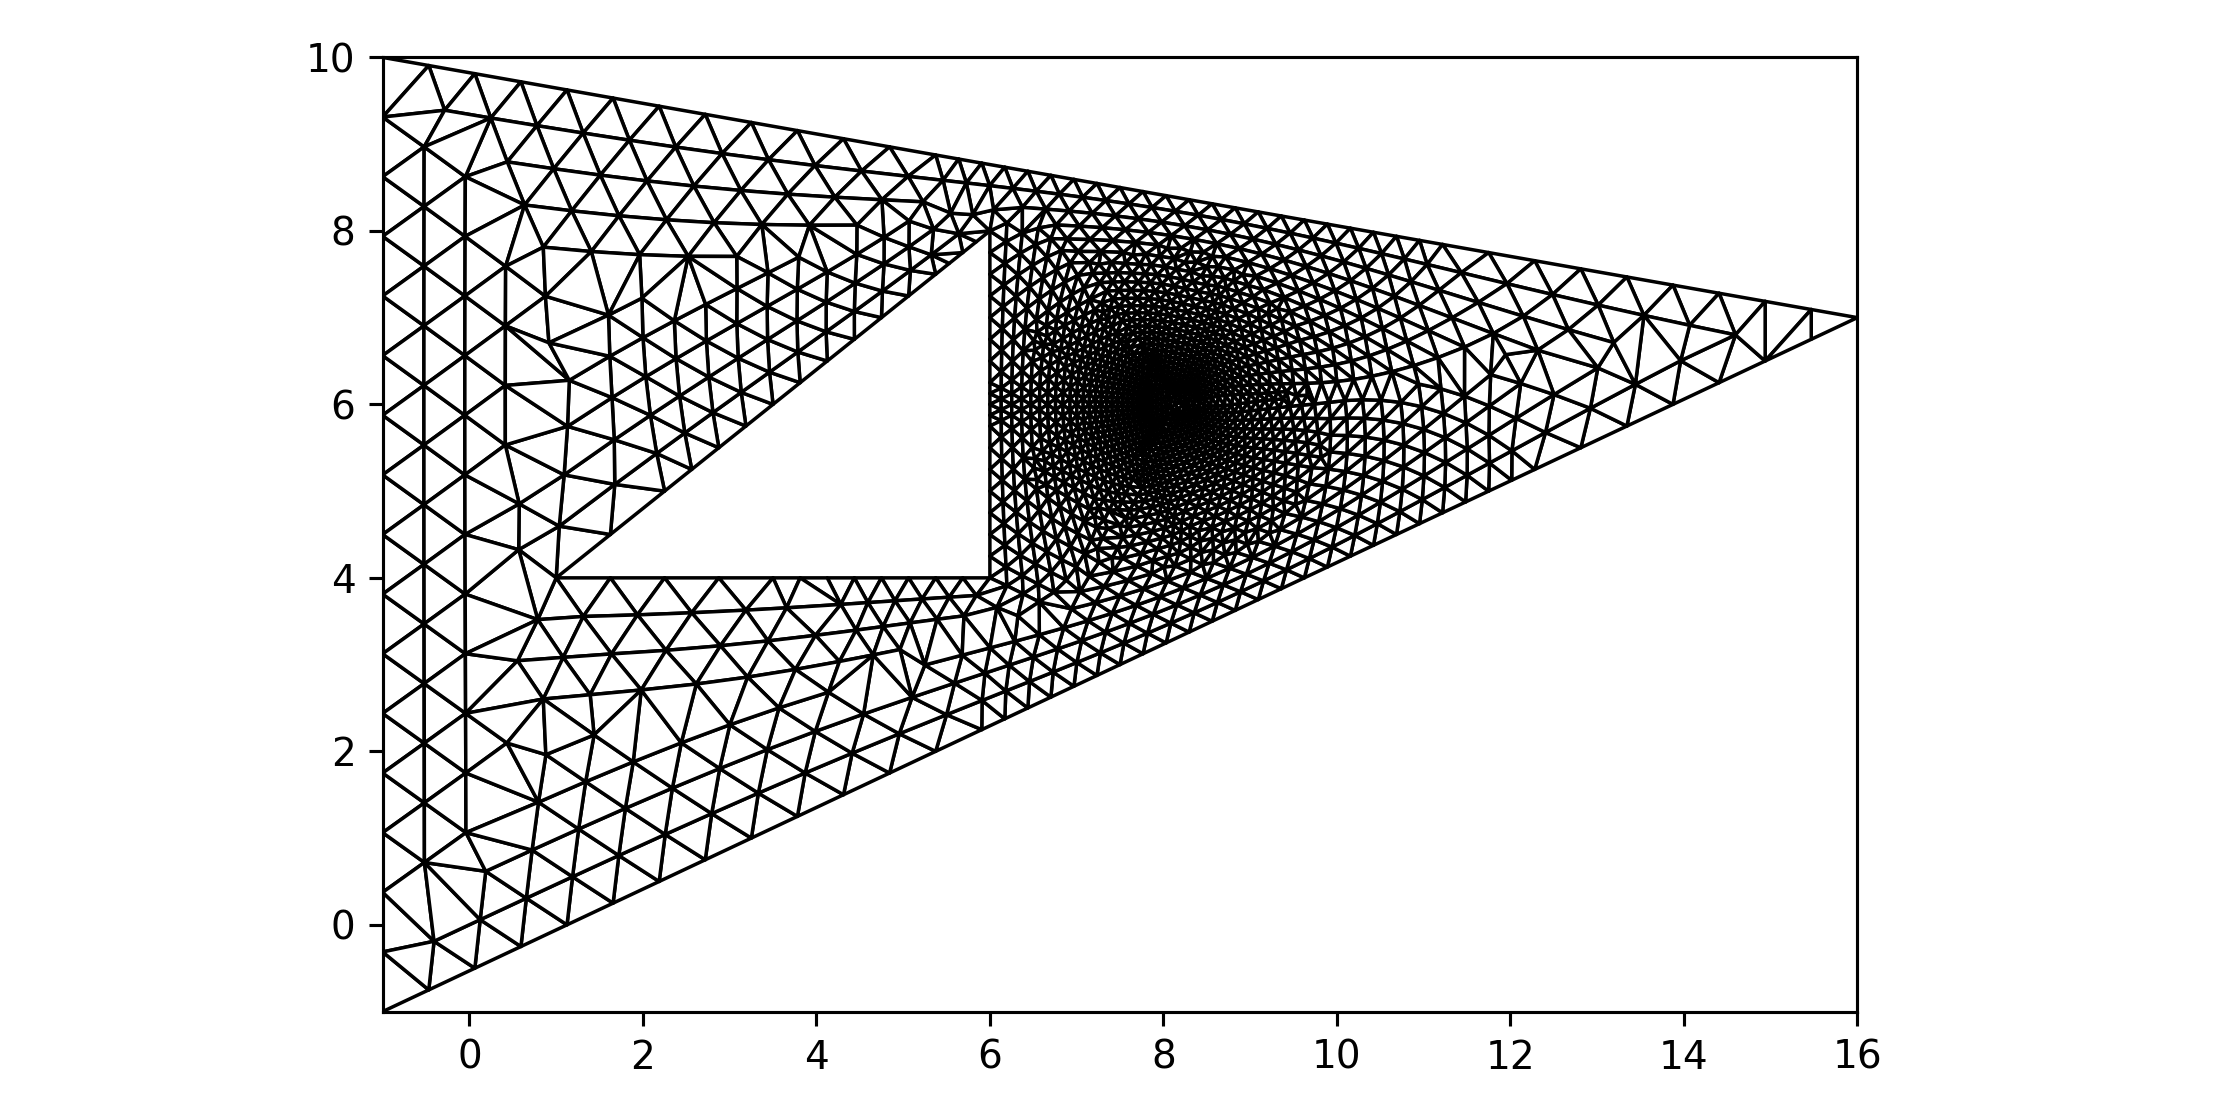
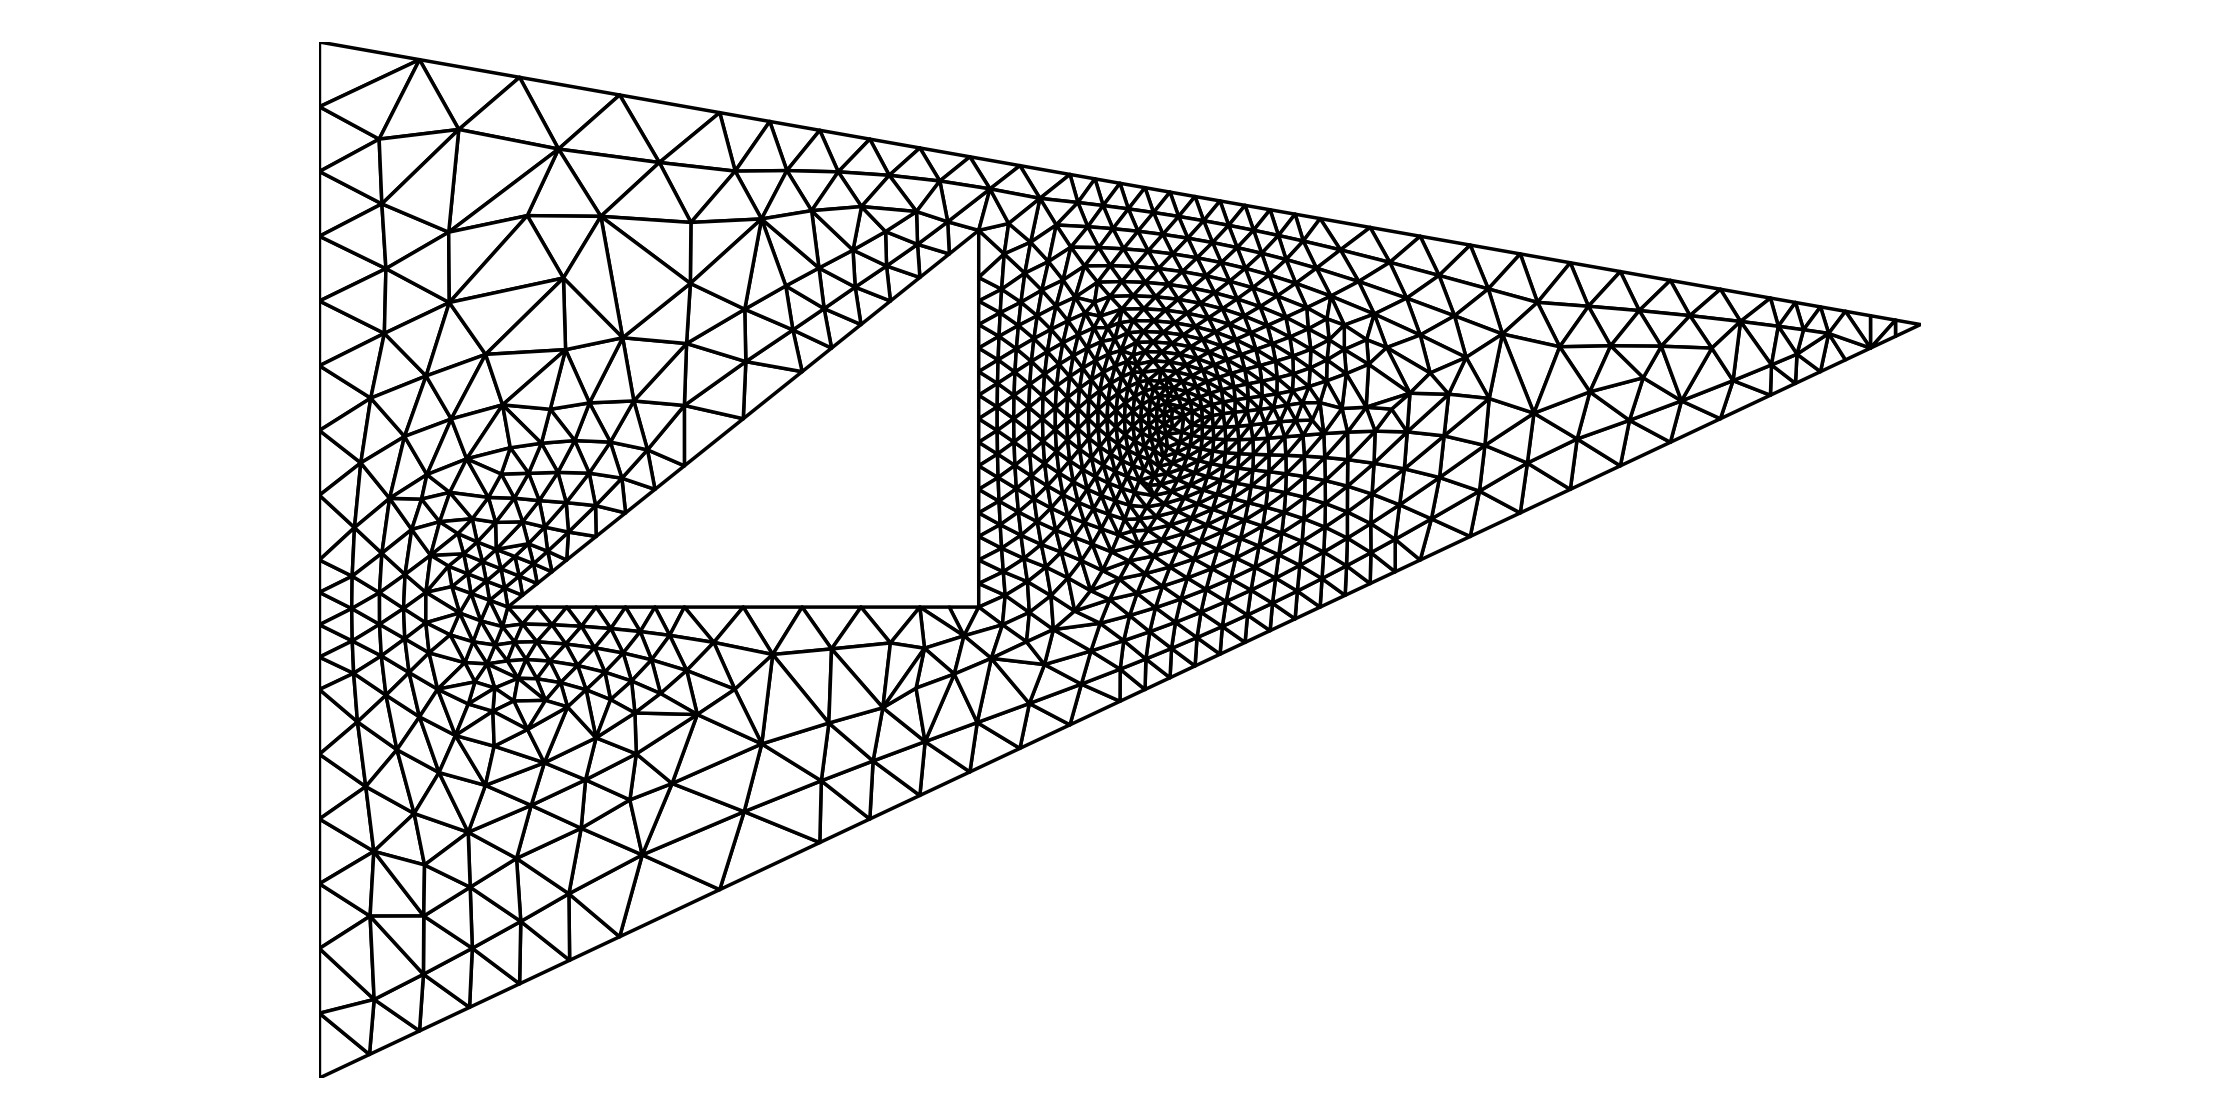
Add example files

Changed region(s): [[0.125, 0.0312, 0.875, 0.9375], [0.8125, 0.9375, 0.8438, 0.9688], [0.6562, 0.9375, 0.6875, 0.9688]]

diff --git a/src/tmesh/test/tmesh_examples.c b/src/tmesh/test/tmesh_examples.c
@@ -1,0 +1,252 @@
+#include "tmesh/tmNode.h"
+#include "tmesh/tmEdge.h"
+#include "tmesh/tmTri.h"
+#include "tmesh/tmBdry.h"
+#include "tmesh/tmMesh.h"
+#include "tmesh/tmQtree.h"
+#include "tmesh/tmFront.h"
+#include "tmesh/tmList.h"
+
+#include "tmesh/minunit.h"
+#include "tmesh/dbg.h"
+
+#include "tmesh_tests.h"
+
+#include <stdio.h>
+#include <stdlib.h>
+#define _USE_MATH_DEFINES
+#include <math.h>
+#include <time.h>
+
+/************************************************************
+* Example 1)
+*   Simple mesh with constant size
+************************************************************/ 
+char *test_example_1()
+{
+  /*--------------------------------------------------------
+  | 1) Define the mesh structure.
+  |
+  |    xyMin, xyMax: The bounding box of the entire mesh
+  |    nElemQtree  : number of elements in a QuadTree, 
+  |                  until it will be refined
+  |                  Has only influence on the performance.
+  |    globSize    : A number > 0 defining the global 
+  |                  element size of the mesh
+  --------------------------------------------------------*/
+  int      nElemQtree  = 50;
+  tmDouble globSize    = 1.0;
+  tmDouble xyMin[2]    = {-10.0,-10.0 };
+  tmDouble xyMax[2]    = { 20.0, 20.0 };
+
+  tmMesh *mesh = tmMesh_create(xyMin, xyMax, nElemQtree, 
+                               globSize, NULL);
+
+  /*--------------------------------------------------------
+  | 2) Define the mesh's exterior boundary.
+  |    The "FALSE" flag simply defines, that this boundary 
+  |    is not an interior boundary.
+  |    The 0 is an identifier for this boundary, which is 
+  |    given as output later, as the mesh is printed out.
+  --------------------------------------------------------*/
+  tmBdry *bdry_ext = tmMesh_addBdry(mesh, FALSE, 0);
+
+  /*--------------------------------------------------------
+  | 3) Define the exterior boundary edge nodes.
+  |    Each boundary edge segment consists of two directed 
+  |    nodes (n1,n2), which must be defined first.
+  |    IMPORTANT: Exterior boundary edges must be defined
+  |               in a counter-clockwise manner.
+  --------------------------------------------------------*/
+  tmDouble xy0[2] = { -1.0, -1.0 };
+  tmDouble xy1[2] = { 16.0,  7.0 };
+  tmDouble xy2[2] = { -1.0, 10.0 };
+
+  tmNode *n0 = tmNode_create(mesh, xy0);
+  tmNode *n1 = tmNode_create(mesh, xy1);
+  tmNode *n2 = tmNode_create(mesh, xy2);
+
+  /*--------------------------------------------------------
+  | 4) Define the exterior boundary edge segments.
+  |    The function takes the following parameters:
+
+  |     > tmBdry_edgeCreate(bdry_ext, n0, n1, marker, f)
+  |
+  |    marker       : This is a further indicator which 
+  |                   can be applied to each edge segment
+  |                   Here, all segments have the same 
+  |                   indicator, but it could also be 
+  |                   chosen in an arbitrary manner, 
+  |                   depending on the application the 
+  |                   mesh will be used for.
+  |                   This value is not related to the 
+  |                   boundary identifier, which was also
+  |                   chosen to be 1 above.
+  |    refinement f : This factor > 1.0 defines the
+  |                   refinement of the mesh elements near
+  |                   the first edge node n1. Increasing
+  |                   the value will lead to a larger 
+  |                   refinement of elements near edges
+  |                   with sharp angles.
+  --------------------------------------------------------*/
+  tmEdge *e0 = tmBdry_edgeCreate(bdry_ext, n0, n1, 0, 1.2);
+  tmEdge *e1 = tmBdry_edgeCreate(bdry_ext, n1, n2, 0, 1.2);
+  tmEdge *e2 = tmBdry_edgeCreate(bdry_ext, n2, n0, 0, 1.2);
+
+  /*--------------------------------------------------------
+  | 2) Define the mesh's interior boundary.
+  |    The "TRUE" flag defines, that this boundary 
+  |    is an interior boundary.
+  |    The 1 is an identifier for this boundary, which is 
+  |    given as output later, as the mesh is printed out.
+  --------------------------------------------------------*/
+  tmBdry *bdry_int = tmMesh_addBdry(mesh, TRUE, 1);
+
+  /*--------------------------------------------------------
+  | 3) Define the interior boundary edge nodes.
+  --------------------------------------------------------*/
+  tmDouble xy3[2] = {  1.0,  4.0 };
+  tmDouble xy4[2] = {  6.0,  8.0 };
+  tmDouble xy5[2] = {  6.0,  4.0 };
+
+  tmNode *n3 = tmNode_create(mesh, xy3);
+  tmNode *n4 = tmNode_create(mesh, xy4);
+  tmNode *n5 = tmNode_create(mesh, xy5);
+
+  /*--------------------------------------------------------
+  | 4) Define the interior boundary edge segments.
+  |    IMPORTANT: Interior boundary edges must be defined
+  |               in a clockwise manner.
+  --------------------------------------------------------*/
+  tmEdge *e3 = tmBdry_edgeCreate(bdry_int, n3, n4, 1, 1.6);
+  tmEdge *e4 = tmBdry_edgeCreate(bdry_int, n4, n5, 1, 1.6);
+  tmEdge *e5 = tmBdry_edgeCreate(bdry_int, n5, n3, 1, 1.6);
+
+  /*--------------------------------------------------------
+  | Create mesh
+  --------------------------------------------------------*/
+  clock_t tic_1 = clock();
+  tmMesh_ADFMeshing(mesh);
+  clock_t tic_2 = clock();
+
+  /*--------------------------------------------------------
+  | Print the mesh data 
+  --------------------------------------------------------*/
+  tmMesh_printMesh(mesh);
+
+  tmPrint("----------------------------------------------\n");
+  tmPrint("Example 1 performance test                \n");
+  tmPrint("----------------------------------------------\n");
+  tmPrint("Number of elements: %d\n", mesh->no_tris);
+  tmPrint("Meshing time      : %e sec\n", 
+      (double) (tic_2 - tic_1) / CLOCKS_PER_SEC );
+  tmPrint("----------------------------------------------\n");
+
+  tmMesh_destroy(mesh);
+
+  return NULL;
+  
+} /* test_example_1() */
+
+/************************************************************
+* Example 2)
+*   Simple mesh with user defined size function
+*
+* First, we need to define a size function:
+************************************************************/ 
+static inline tmDouble sizeFunExample( tmDouble xy[2] )
+{
+  tmDouble sizeFac = 1.5;
+  tmDouble dx = 8.0 - xy[0];
+  tmDouble dy = 6.0 - xy[1];
+  return sizeFac * (0.46 - 0.41 * exp(-0.05*(dx*dx+dy*dy)));
+}
+char *test_example_2()
+{
+  /*--------------------------------------------------------
+  | 1) Define the mesh structure.
+  |    The size function is now passed to the mesh as
+  |    argument on its creation.
+  |    The rest is done as before.   
+  --------------------------------------------------------*/
+  int      nElemQtree  = 50;
+  tmDouble globSize    = 1.0;
+  tmDouble xyMin[2]    = {-10.0,-10.0 };
+  tmDouble xyMax[2]    = { 20.0, 20.0 };
+
+  tmMesh *mesh = tmMesh_create(xyMin, xyMax, nElemQtree, 
+                               globSize, sizeFunExample);
+
+  /*--------------------------------------------------------
+  | 2) Define the mesh's exterior boundary.
+  --------------------------------------------------------*/
+  tmBdry *bdry_ext = tmMesh_addBdry(mesh, FALSE, 0);
+
+  /*--------------------------------------------------------
+  | 3) Define the exterior boundary edge nodes.
+  --------------------------------------------------------*/
+  tmDouble xy0[2] = { -1.0, -1.0 };
+  tmDouble xy1[2] = { 16.0,  7.0 };
+  tmDouble xy2[2] = { -1.0, 10.0 };
+
+  tmNode *n0 = tmNode_create(mesh, xy0);
+  tmNode *n1 = tmNode_create(mesh, xy1);
+  tmNode *n2 = tmNode_create(mesh, xy2);
+
+  /*--------------------------------------------------------
+  | 4) Define the exterior boundary edge segments.
+  --------------------------------------------------------*/
+  tmEdge *e0 = tmBdry_edgeCreate(bdry_ext, n0, n1, 0, 1.2);
+  tmEdge *e1 = tmBdry_edgeCreate(bdry_ext, n1, n2, 0, 1.2);
+  tmEdge *e2 = tmBdry_edgeCreate(bdry_ext, n2, n0, 0, 1.2);
+
+  /*--------------------------------------------------------
+  | 2) Define the mesh's interior boundary.
+  --------------------------------------------------------*/
+  tmBdry *bdry_int = tmMesh_addBdry(mesh, TRUE, 1);
+
+  /*--------------------------------------------------------
+  | 3) Define the interior boundary edge nodes.
+  --------------------------------------------------------*/
+  tmDouble xy3[2] = {  1.0,  4.0 };
+  tmDouble xy4[2] = {  6.0,  8.0 };
+  tmDouble xy5[2] = {  6.0,  4.0 };
+
+  tmNode *n3 = tmNode_create(mesh, xy3);
+  tmNode *n4 = tmNode_create(mesh, xy4);
+  tmNode *n5 = tmNode_create(mesh, xy5);
+
+  /*--------------------------------------------------------
+  | 4) Define the interior boundary edge segments.
+  --------------------------------------------------------*/
+  tmEdge *e3 = tmBdry_edgeCreate(bdry_int, n3, n4, 1, 1.6);
+  tmEdge *e4 = tmBdry_edgeCreate(bdry_int, n4, n5, 1, 1.6);
+  tmEdge *e5 = tmBdry_edgeCreate(bdry_int, n5, n3, 1, 1.6);
+
+  /*--------------------------------------------------------
+  | Create mesh
+  --------------------------------------------------------*/
+  clock_t tic_1 = clock();
+  tmMesh_ADFMeshing(mesh);
+  clock_t tic_2 = clock();
+
+  /*--------------------------------------------------------
+  | Print the mesh data 
+  --------------------------------------------------------*/
+  tmMesh_printMesh(mesh);
+
+  tmPrint("----------------------------------------------\n");
+  tmPrint("Example 2 performance test                \n");
+  tmPrint("----------------------------------------------\n");
+  tmPrint("Number of elements: %d\n", mesh->no_tris);
+  tmPrint("Meshing time      : %e sec\n", 
+      (double) (tic_2 - tic_1) / CLOCKS_PER_SEC );
+  tmPrint("----------------------------------------------\n");
+
+  tmMesh_destroy(mesh);
+
+  return NULL;
+
+
+
+} /* test_example_2() */

diff --git a/src/tmesh/test/unit_tests.c b/src/tmesh/test/unit_tests.c
@@ -5,6 +5,7 @@
 #include "tmList_tests.h"
 #include "tmesh_cylinder.h"
 #include "geom_tests.h"
+#include "tmesh_examples.h"
 
 /************************************************************
 * Run all unit test functions
@@ -44,11 +45,16 @@ char *all_tests()
   //mu_run_test(test_tmFront_innerOuterMesh);
   //mu_run_test(test_tmFront_tMesh);
     
-  mu_run_test(test_tmBdry_sizeFunction);
+  //mu_run_test(test_tmBdry_sizeFunction);
   
   //mu_run_test(test_mesh_cylinder);
   
 
+  /**********************************************************
+  * TMesh Examples
+  **********************************************************/
+  //mu_run_test(test_example_1);
+  mu_run_test(test_example_2);
 
 
   return NULL;

diff --git a/src/tmesh/test/tmesh_examples.h b/src/tmesh/test/tmesh_examples.h
@@ -1,0 +1,16 @@
+#ifndef tmesh_examples_h
+#define tmesh_examples_h
+
+/************************************************************
+* Example 1)
+*   Simple mesh with constant size
+************************************************************/ 
+char *test_example_1();
+
+/************************************************************
+* Example 2)
+*   Simple mesh with user defined size function
+************************************************************/ 
+char *test_example_2();
+
+#endif

diff --git a/src/tmesh/test/tmesh_tests.c b/src/tmesh/test/tmesh_tests.c
@@ -1760,8 +1760,6 @@ char *test_tmBdry_sizeFunction()
   //tmMesh_printMesh(mesh);
   tmMesh_destroy(mesh);
 
-
   return NULL;
 
 } /* test_automaticSizeFunction() */
-

diff --git a/README.md b/README.md
@@ -17,6 +17,9 @@ make install
 ```
 
 ## Handling
+A detailed description on how to define a mesh is given in the examples under 
+*src/tmesh/test*.
+
 Every mesh is defined by an exterior boundary and several more interior boundaries.
 These boundaries consist of edge segments, which connect two nodes.
 Besides this, it is also necessary to provide a size-function `size_fun` to the mesh, which
@@ -66,7 +69,7 @@ which is located in the directory *share/python*.
 <img src="doc/images/exampleMesh.png" alt="Example-Grid" width="500"/>
 
 ### Custom Element Sizing
-The local element size is defined through a size function defined by the user and 
+The local element size can either be defined through a size function defined by the user or  
 by the boundary edges. Elements near sharp angles are automatically refined.
 
 <img src="doc/images/bdrySizeFun.png" alt="SizeFunction" width="500"/>
